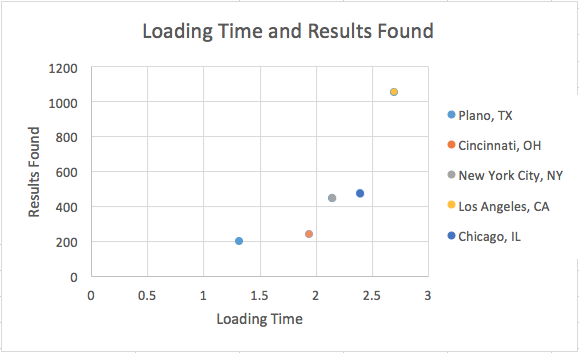
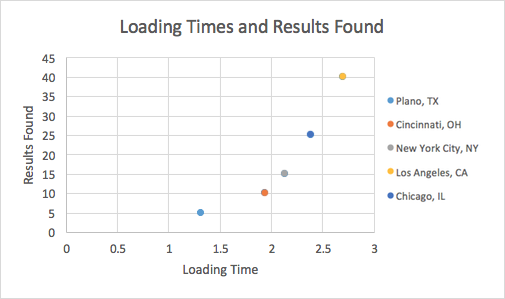
updates

diff --git a/conclusion.html b/conclusion.html
@@ -314,9 +314,9 @@
       the number of results in the user’s location. Additionally, whether or not the filters work was verified. The app was
       able to pull items from the database without problems—while there were a few glitches, they were unrelated to data
       collection and quickly fixed.</h4>
-        <h4 class="desc center-restrict2">While the number of results did impact the loading time, it did not have as large of an impact as
-      anticipated. The area with the highest number of volunteering opportunities out of the tested cities, Los Angeles, CA,
-      with an average of 1,853 opportunities in the area without restrictions, had an average loading time of 2.2 seconds.</h4>
+        <h4 class="desc center-restrict2">While the number of results did have an impact the loading time, it did not have as large of an impact as
+      anticipated. It also appeared to have a larger impact on the early versions of the app. The area with the highest number of volunteering opportunities out of the tested cities, Los Angeles, CA,
+      which pulled 25 opportunities, had an average loading time of 2.2 seconds, which was not far from the average loading time of the other cities, 1.87 seconds.</h4>
         <h4 class="desc center-restrict2">There is a lot of potential for future applications of this project, such as new features. In the
       future, a feature allowing an organization to post opportunities may be added. The code for this project can also be
       used as reference for other similar projects.</h4>

diff --git a/procedure.html b/procedure.html
@@ -318,7 +318,7 @@
         <h5 class="desc rrindent">2. Once the app is loaded on the iPhone, start by creating an account. Log in with the same
           account and record the login time. Mark down any observations, such as any glitches.</h5>
         <h5 class="desc rrindent">3. Once logged in, look for results near the user. Record the time it takes to find the
-          results, and how many total results were found in the user’s area. Continue to mark down any glitches observed.</h5>
+          results. Continue to mark down any glitches observed.</h5>
         <h5 class="desc rrindent">4. Verify whether or not all the information displayed is relevant or not. Make sure
           outdated information and opportunities that are too far away from the location are not presented. Continue to
           mark down any glitches observed.</h5>
@@ -330,7 +330,7 @@
         <h5 class="desc rrindent">8. Once the first set of data is collected, work on the app to fix any bugs noticed.
           Data will be collected again on improved versions of the app.</h5>
         <br>
-        <h5 class="desc right-restrict">The results will be verified through repeated trials on different days.</h5>
+        <h5 class="desc right-restrict">The results will be verified through three different trials on different days.</h5>
         <br>
     </div>
     <script>
